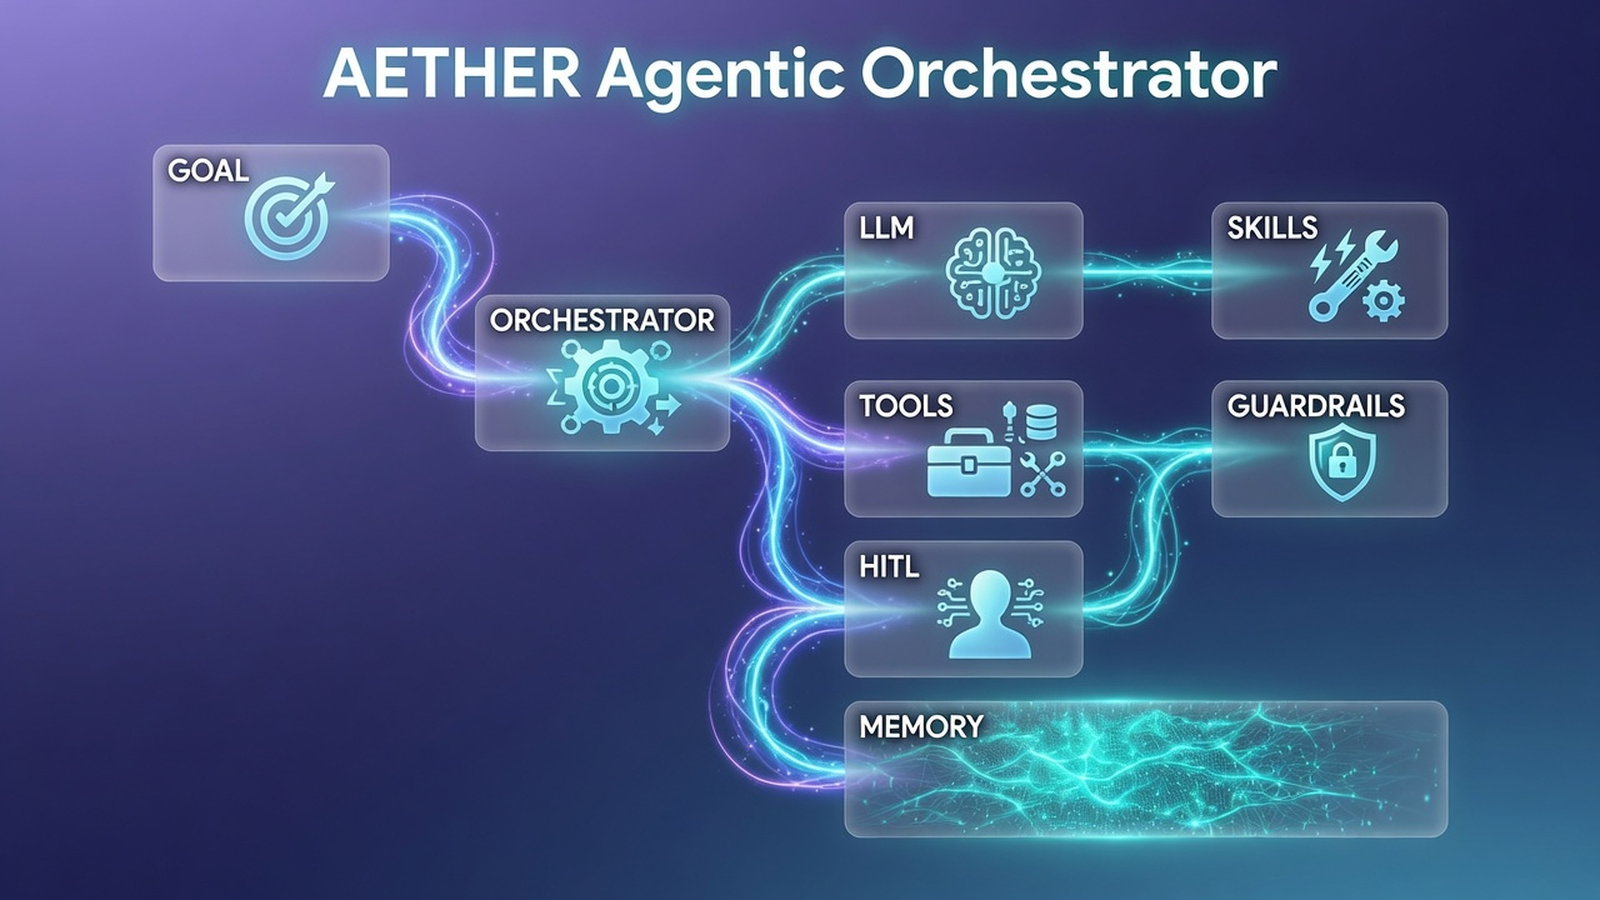
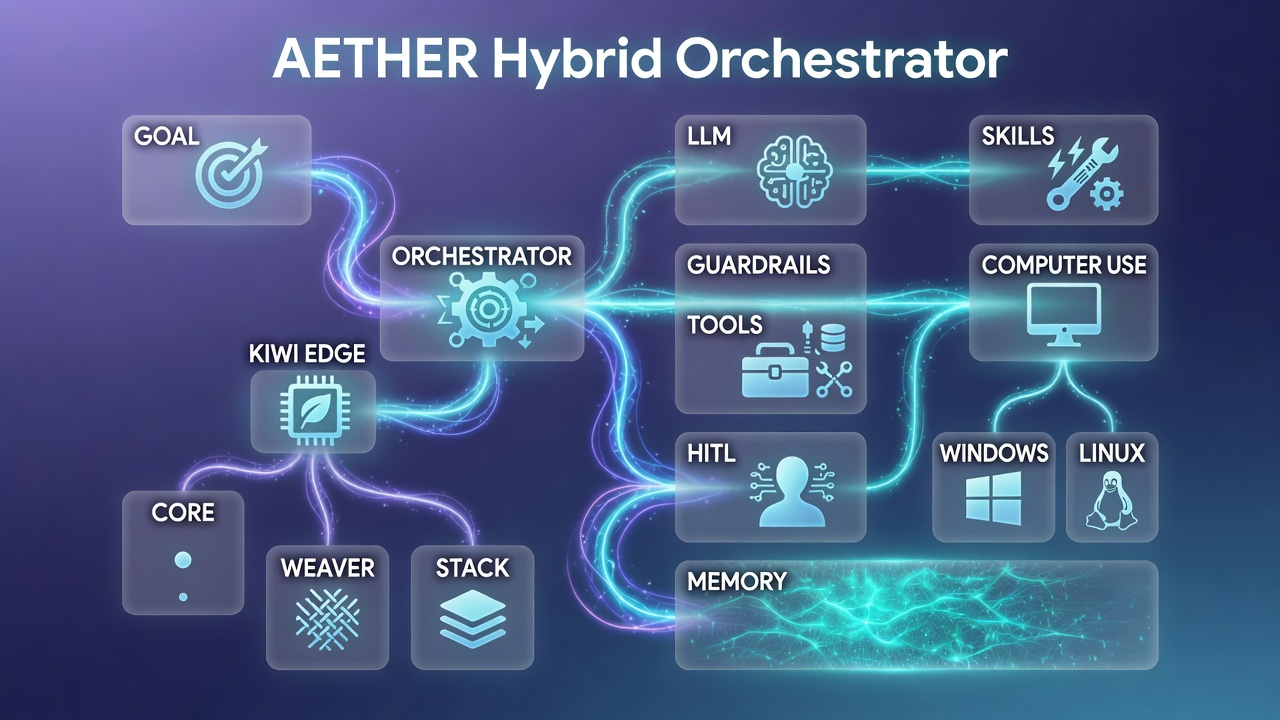
docs: hybridise diagrams and dual-platform install for Windows + Linux
Update architecture overview images and Mermaid maps for Core · Weaver · Aether · stack hybridisation. Add install.sh / install.ps1 (and expand bootstrap/setup docs) so every repo has clear Windows and Linux install paths while keeping RPi 5 as the production edge target.

diff --git a/README.md b/README.md
@@ -22,7 +22,7 @@ Aether is the **sovereign agentic development orchestrator** for the stack: ReAc
 %%{init: {
   "theme": "dark",
   "themeVariables": {
-    "fontSize": "16px",
+    "fontSize": "15px",
     "fontFamily": "Inter, ui-sans-serif, system-ui, sans-serif",
     "primaryColor": "#0ea5e9",
     "primaryTextColor": "#f8fafc",
@@ -35,65 +35,136 @@ Aether is the **sovereign agentic development orchestrator** for the stack: ReAc
     "titleColor": "#e2e8f0"
   },
   "flowchart": {
-    "nodeSpacing": 40,
-    "rankSpacing": 48,
-    "padding": 20,
+    "nodeSpacing": 36,
+    "rankSpacing": 44,
+    "padding": 18,
     "htmlLabels": true,
-    "curve": "basis"
+    "curve": "basis",
+    "useMaxWidth": true
   }
 }}%%
 flowchart TB
 
-    classDef sense fill:#052e16,stroke:#4ade80,stroke-width:2px,color:#f0fdf4
-    classDef edge fill:#0c4a6e,stroke:#38bdf8,stroke-width:2px,color:#f0f9ff
-    classDef core fill:#134e4a,stroke:#2dd4bf,stroke-width:2px,color:#f0fdfa
     classDef act fill:#422006,stroke:#fbbf24,stroke-width:2px,color:#fffbeb
-    classDef store fill:#1e1b4b,stroke:#a5b4fc,stroke-width:2px,color:#eef2ff
+    classDef core fill:#134e4a,stroke:#2dd4bf,stroke-width:2px,color:#f0fdfa
     classDef ai fill:#3b0764,stroke:#e879f9,stroke-width:2px,color:#fdf4ff
-    classDef app fill:#1e1b4b,stroke:#c4b5fd,stroke-width:2px,color:#eef2ff
+    classDef store fill:#1e1b4b,stroke:#a5b4fc,stroke-width:2px,color:#eef2ff
+    classDef host fill:#0c4a6e,stroke:#38bdf8,stroke-width:2px,color:#f0f9ff
+    classDef desk fill:#052e16,stroke:#4ade80,stroke-width:2px,color:#f0fdf4
+    classDef stack fill:#312e81,stroke:#a5b4fc,stroke-width:2px,color:#eef2ff
 
-    G["Goal / CI signal"] --> ORCH["AetherOrchestrator"]
+    G["Goal / CI signal"] --> ORCH["AetherOrchestrator<br/>ReAct loop"]
     ORCH --> LLM["Ollama client<br/>JSON action contract"]
     ORCH --> SK["Skill loader<br/>skills/*/SKILL.md"]
-    ORCH --> TL["Tools<br/>read · search · write · memory"]
+    ORCH --> TL["File tools<br/>read · search · write · memory"]
+    ORCH --> CU["Computer use hybrid<br/>screenshot · click · type · shell"]
     ORCH --> GR["Guardrails + threat model<br/>HITL gates"]
     LLM --> DEC["Validated decision"]
     DEC --> GR
     GR -->|approved| TL
+    GR -->|approved| CU
     GR -->|halt / approve| HITL["Human approval"]
-    TL --> MEM["JSONL memory"]
+    TL --> MEM["JSONL memory / audit"]
+    CU --> MEM
     SK --> ORCH
 
+    subgraph HOSTS["Hybrid hosts — one code path"]
+        WIN["Windows 10/11<br/>install.ps1 · pyautogui"]
+        LIN["Linux / RPi OS<br/>install.sh · X11/Wayland"]
+        MAC["macOS optional"]
+    end
+
+    subgraph STACK["Kiwi Edge hybridisation"]
+        CORE["Coastal-Alpine-Core skills"]
+        WEA["Weaver multi-tenant mesh"]
+        CAS["coastal-alpine-stack monorepo"]
+    end
+
+    ORCH -.-> HOSTS
+    SK -.-> CORE & WEA & CAS
+    CU -.-> WIN & LIN
+
     class G,HITL act
-    class ORCH,SK,TL core
+    class ORCH,SK,TL,CU core
     class LLM,DEC ai
-    class GR store
-    class MEM store
+    class GR,MEM store
+    class WIN,LIN,MAC host
+    class CORE,WEA,CAS stack
 ```
 
 | Layer | Components | Role |
 | :--- | :--- | :--- |
-| **Loop** | ReAct + tools | One action per step |
-| **Skills** | Markdown packs | Domain procedures |
-| **Safety** | Guardrails + skill HITL | Writes + `requires_hitl` / high-cultural skills gated by default |
-| **LLM** | Ollama local | Offline-capable |
+| **Loop** | ReAct + tools + computer use | One action per step (files *or* desktop) |
+| **Skills** | Markdown packs + Kiwi Edge skills | Domain procedures + stack architecture |
+| **Safety** | Guardrails + skill HITL | Writes / desktop actuation gated by default |
+| **LLM** | Ollama local (text + vision) | Offline-capable on Windows, Linux, RPi |
+| **Hosts** | `install.ps1` · `install.sh` | Same package; dual-platform installers |
+| **Hybrid stack** | Core · Weaver · coastal-alpine-stack | Companion for sovereign edge development |
 
 *Full detail: [docs/ARCHITECTURE.md](./docs/ARCHITECTURE.md) · [docs/GETTING_STARTED.md](./docs/GETTING_STARTED.md)*
 
 ## Quick Start
 
+### One-line install (recommended)
+
+<details open>
+<summary><strong>🐧 Linux / macOS</strong></summary>
+
+```bash
+curl -fsSL https://raw.githubusercontent.com/fivepanelhat/Aether/main/install.sh | bash
+aether doctor
+```
+
+</details>
+
+<details>
+<summary><strong>🪟 Windows (PowerShell)</strong></summary>
+
+```powershell
+irm https://raw.githubusercontent.com/fivepanelhat/Aether/main/install.ps1 | iex
+aether doctor
+```
+
+> **Note:** If script execution is blocked: `Set-ExecutionPolicy -Scope CurrentUser RemoteSigned`
+
+</details>
+
+### From a clone
+
+<details open>
+<summary><strong>🐧 Linux / macOS</strong></summary>
+
 ```bash
 git clone https://github.com/fivepanelhat/Aether.git
 cd Aether
-pip install -e .
-
-# Install skills into ~/.aether/skills and ./skills (also works after plain pip install)
+python3 -m venv .venv && source .venv/bin/activate
+pip install -e ".[computer]"   # or: pip install -e .  for CLI only
 aether init
-
 aether --help
 aether skills
 aether run "Audit the API routes for security issues"
 ```
+
+</details>
+
+<details>
+<summary><strong>🪟 Windows (PowerShell)</strong></summary>
+
+```powershell
+git clone https://github.com/fivepanelhat/Aether.git
+cd Aether
+python -m venv .venv
+.\.venv\Scripts\Activate.ps1
+pip install -e ".[computer]"   # or: pip install -e .  for CLI only
+aether init
+aether --help
+aether skills
+aether run "Audit the API routes for security issues"
+```
+
+</details>
+
+**Prerequisites (both platforms):** Python 3.10+, Git, [Ollama](https://ollama.com) for local models. On Linux desktop control also needs a display server (X11/Wayland) and often `python3-tk` / `scrot` depending on distro.
 
 Skills ship inside the package (`aether/bundled_skills`) so `pip install` works without a git checkout. `aether init` copies them to the user/project locations. Discovery order: `AETHER_SKILLS_DIR` → `./skills` → `~/.aether/skills` → packaged skills.
 
@@ -354,6 +425,8 @@ Status badges for this repository (CI, security, license, and stack metadata):
 
 [![License](https://img.shields.io/badge/License-Apache%202.0-blue?style=flat-square)](LICENSE)  
 [![Python: 3.10+](https://img.shields.io/badge/Python-3.10%2B-blue?style=flat-square)](https://www.python.org/)  
+[![Platform](https://img.shields.io/badge/Platform-Windows%20%7C%20Linux%20%7C%20macOS-0078D6?style=flat-square)]()  
+[![Hybrid](https://img.shields.io/badge/Hybrid-Edge%20AI%20%2B%20Computer%20Use-8B5CF6?style=flat-square)]()  
 [![Version](https://img.shields.io/badge/version-0.6.8-informational?style=flat-square)](CHANGELOG.md)  
 [![Hardware Target](https://img.shields.io/badge/Hardware-Raspberry%20Pi%205%2016GB-C11A5B?style=flat-square&logo=raspberry-pi&logoColor=white)]()  
 [![NPU Acceleration](https://img.shields.io/badge/NPU-Hailo--10H%20Accelerated-005A9C?style=flat-square)]()  

diff --git a/docs/ARCHITECTURE.md b/docs/ARCHITECTURE.md
@@ -54,10 +54,42 @@ Reusable, versioned units of knowledge and behavior. Skills can be:
 - **Composability**: Skills and tools are modular and reusable.
 - **Observability**: Actions, decisions, and results are logged and traceable.
 - **Extensibility**: Easy to add new tools and skills over time.
+- **Cross-platform**: One code path for **Windows and Linux** (and macOS).
+
+## Hybridisation — Edge AI + Computer Use + Kiwi Stack
+
+Aether hybridises three concerns:
+
+1. **Sovereign edge AI** — local Ollama (text + vision), offline-capable
+2. **Computer use** — screenshot / mouse / keyboard / shell via `aether computer` (Windows + Linux)
+3. **Kiwi Edge companion** — skills for Core, Weaver, coastal-alpine-stack, Te Mana Raraunga
+
+```mermaid
+%%{init: { "theme": "dark", "flowchart": { "curve": "basis", "useMaxWidth": true } }}%%
+flowchart TB
+    Goal --> Orch[AetherOrchestrator]
+    Orch --> Tools[File tools]
+    Orch --> Computer[Computer use hybrid]
+    Orch --> Skills
+    Orch --> Guard[Guardrails HITL]
+    Computer --> Win[Windows pyautogui]
+    Computer --> Lin[Linux X11 Wayland]
+    Skills --> Core[Coastal-Alpine-Core awareness]
+    Skills --> Weaver
+    Skills --> Stack[coastal-alpine-stack]
+```
+
+### Dual-platform install
+
+| OS | Installer |
+| :--- | :--- |
+| Linux / macOS | `install.sh` — `curl -fsSL …/install.sh \| bash` |
+| Windows | `install.ps1` — `irm …/install.ps1 \| iex` |
+
+Extras: `pip install "aether[computer]"` for desktop control; `aether[webhook]` for CI remediation.
 
 ## Future Considerations
 
-- Deeper LLM integration for decision making
-- More advanced execution workflows
-- Potential migration to LangGraph for very complex multi-agent scenarios
-- Packaging as a distributable tool
+- Deeper multi-agent workflows with Weaver / LangGraph
+- Richer computer-use planners for long desktop tasks
+- Tighter Core SecurityGuard alignment on shared threat models

diff --git a/docs/GETTING_STARTED.md b/docs/GETTING_STARTED.md
@@ -11,19 +11,63 @@ Aether is an agentic development system that can help you with tasks such as:
 - Running structured development workflows using reusable skills
 - Safely applying code changes through git
 
-## Installation
+## Installation (Windows + Linux)
+
+Aether is dual-platform: **Windows 10/11**, **Linux** (including RPi OS), and macOS. Hybrid extras add **computer use** (desktop control) on the same install path.
+
+### One-line installers
+
+**Linux / macOS**
+
+```bash
+curl -fsSL https://raw.githubusercontent.com/fivepanelhat/Aether/main/install.sh | bash
+aether doctor
+```
+
+**Windows (PowerShell)**
+
+```powershell
+irm https://raw.githubusercontent.com/fivepanelhat/Aether/main/install.ps1 | iex
+aether doctor
+```
+
+### From a clone
+
+<details open>
+<summary><strong>🐧 Linux / macOS</strong></summary>
 
 ```bash
 git clone https://github.com/fivepanelhat/Aether.git
 cd Aether
-pip install -e .
+python3 -m venv .venv && source .venv/bin/activate
+pip install -e ".[computer]"   # or: pip install -e .
+aether init
 ```
+
+</details>
+
+<details>
+<summary><strong>🪟 Windows (PowerShell)</strong></summary>
+
+```powershell
+git clone https://github.com/fivepanelhat/Aether.git
+cd Aether
+python -m venv .venv
+.\.venv\Scripts\Activate.ps1
+pip install -e ".[computer]"   # or: pip install -e .
+aether init
+```
+
+</details>
+
+**Prerequisites:** Python 3.10+, Git, [Ollama](https://ollama.com). Linux computer-use may need a display (X11/Wayland) and distro packages such as `python3-tk`.
 
 ## Verify
 
 ```bash
 aether --version
 aether skills
+aether doctor
 ```
 
 ## Running Tasks

diff --git a/CHANGELOG.md b/CHANGELOG.md
@@ -1,5 +1,13 @@
 # Changelog
 
+
+## Hybrid platform update (July 2026)
+
+- Dual-platform installers: `install.sh` (Linux/macOS) and `install.ps1` (Windows)
+- Mermaid system maps updated for hybridisation (Core · Weaver · Aether · stack) and Windows + Linux hosts
+- Architecture overview images refreshed for hybrid stack + dual OS targets
+- Developer setup / installation docs cover Windows and Linux prerequisites and packages
+
 All notable changes to Aether will be documented in this file.
 
 ## [0.7.0] - 2026-07
